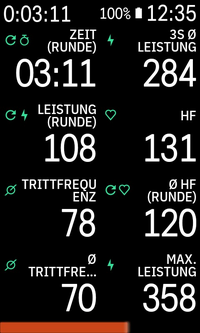
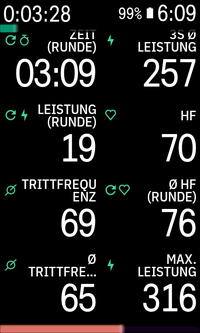
Update screenshots, set height to 14dp

diff --git a/app/src/main/kotlin/de/timklge/karoopowerbar/KarooPowerbarExtension.kt b/app/src/main/kotlin/de/timklge/karoopowerbar/KarooPowerbarExtension.kt
@@ -10,7 +10,7 @@ import kotlinx.coroutines.Dispatchers
 import kotlinx.coroutines.Job
 import kotlinx.coroutines.launch
 
-class KarooPowerbarExtension : KarooExtension("karoo-powerbar", "1.0.1") {
+class KarooPowerbarExtension : KarooExtension("karoo-powerbar", "1.1.0") {
 
     companion object {
         const val TAG = "karoo-powerbar"
